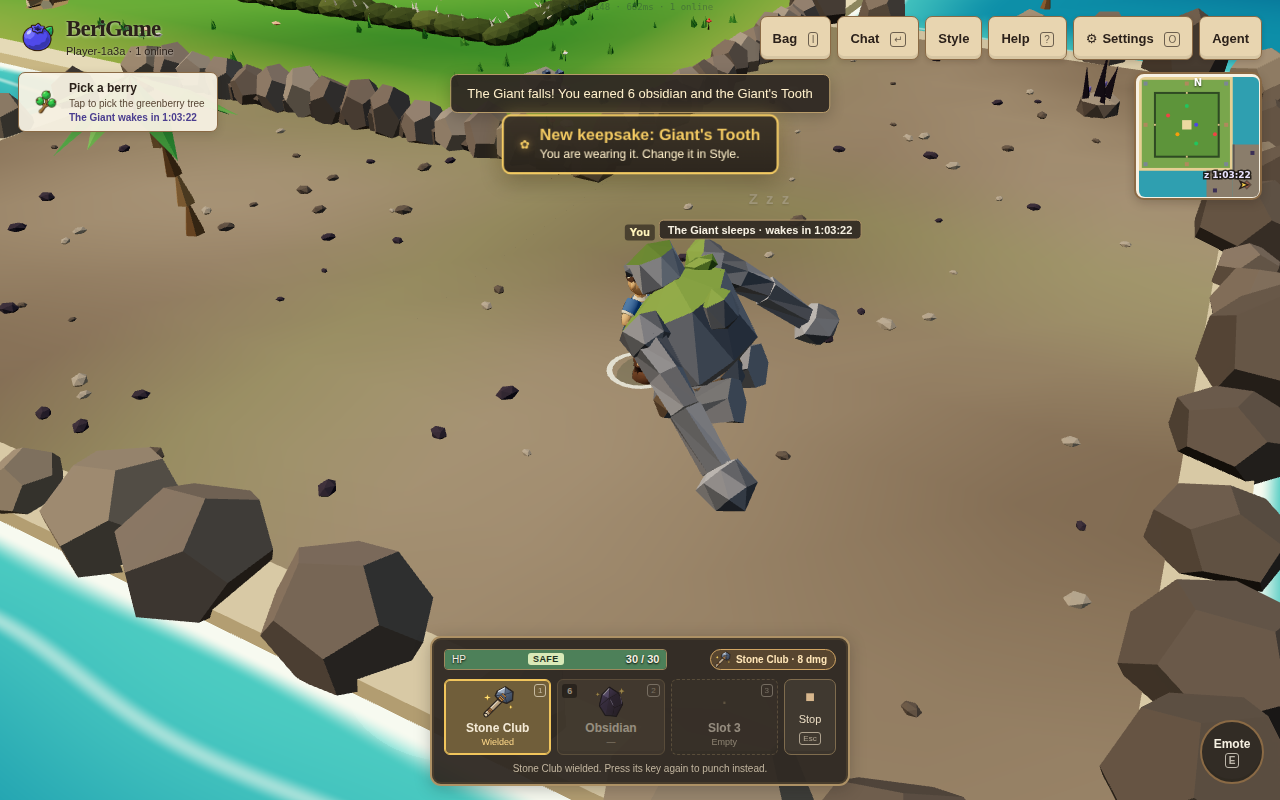
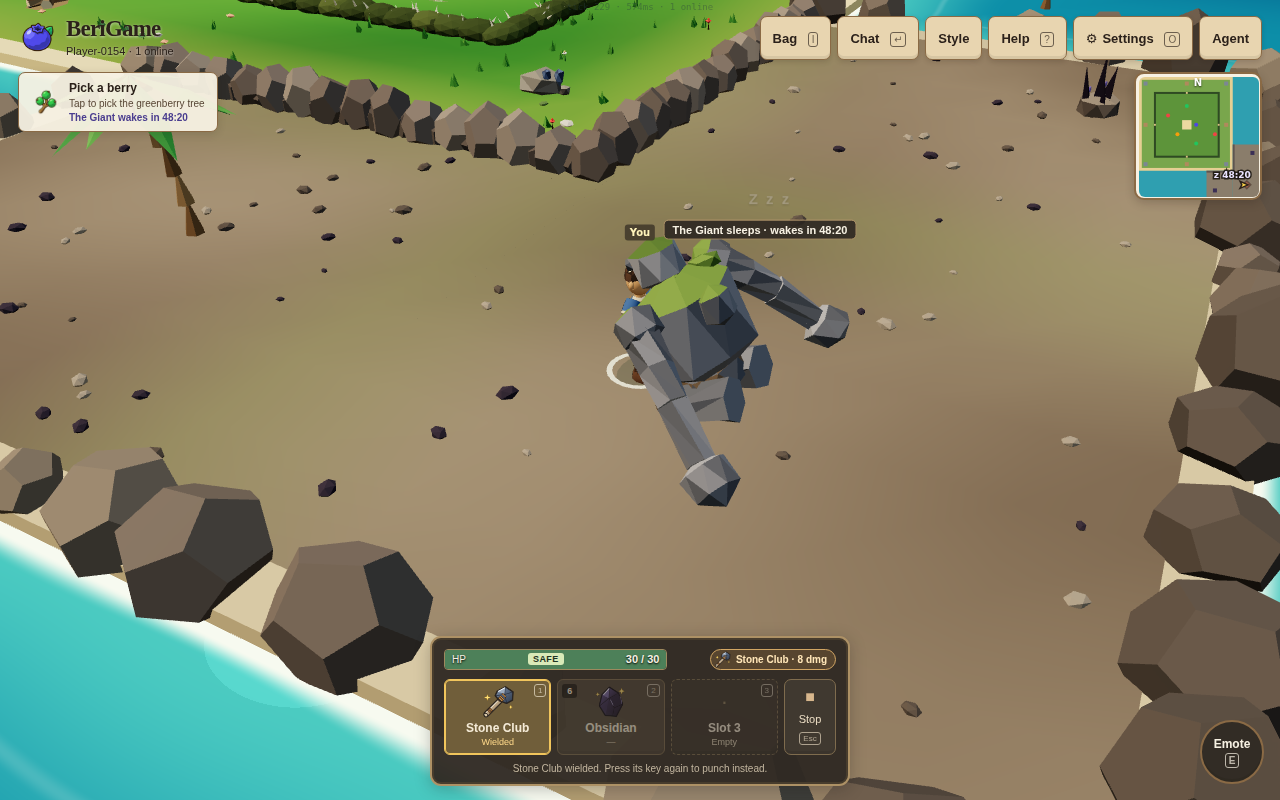
No idle regen during raids; fix doubled event-table delivery; topple before sleep
- A raid Giant never regenerates or forgets contributions mid-fight; the
  15-minute window is the only limit (test added).
- Root cause of doubled client events: useTable opened a second SQL
  subscription over tables the connection already subscribes to, so every
  event-table row (combat, dummy, emote, social, Giant) was delivered and
  handled twice. TableSync now listens on the connection's own subscription;
  the chat de-dup is removed and the live check asserts single delivery.
- A raid defeat plays the topple, holds, then eases into the sleeping sit;
  the personal reward toast is no longer covered by the world-wide line.

Claude-Session: https://claude.ai/code/session_015FWupnE4RZECBtKCf318CJ

diff --git a/frontend/src/spacetime/SpacetimeProvider.tsx b/frontend/src/spacetime/SpacetimeProvider.tsx
@@ -1,12 +1,11 @@
-import React, { useCallback, useEffect, useMemo, useRef, useState } from 'react';
+import React, { useEffect, useMemo, useRef, useState } from 'react';
 import type { CombatEvent, SocialEvent } from '../module_bindings/types';
 import { identityHex } from './identity';
 import { useToastStore } from './stores/toastStore';
 import { useMyIdentityHex } from './hooks';
 import { useFirstDayStore } from './stores/firstDayStore';
-import { SpacetimeDBProvider, useSpacetimeDB, useTable } from 'spacetimedb/react';
+import { SpacetimeDBProvider, useSpacetimeDB } from 'spacetimedb/react';
 import type { DbConnection } from '../module_bindings';
-import { tables } from '../module_bindings';
 import { buildConnection, currentConnection, markConnectionLost, setConnectionLifecycle } from './connection';
 import { ReconnectController, type BackoffOptions } from './reconnect';
 import { useLoadingStore } from '../store';
@@ -20,33 +19,49 @@ import { useSocialStore } from './stores/socialStore';
 import { useGiantStore } from './stores/giantStore';
 import { useProgressStore } from './stores/progressStore';
 
+/**
+ * Listen to one table of the connection's own world subscription. Unlike
+ * `useTable`, this opens no second SQL subscription: with two overlapping
+ * subscriptions every event-table row (combat, dummy, emote, social, Giant)
+ * was delivered, and handled, twice.
+ */
+function useRowListener(accessor: string, onInsert?: (row: any) => void, onUpdate?: (prev: any, row: any) => void) {
+  const { getConnection, isActive } = useSpacetimeDB<DbConnection>();
+  const conn = getConnection() as any;
+  const ins = useRef(onInsert); ins.current = onInsert;
+  const upd = useRef(onUpdate); upd.current = onUpdate;
+  useEffect(() => {
+    const table = conn?.db?.[accessor];
+    if (!table || !isActive) return;
+    const i = (_ctx: any, row: any) => ins.current?.(row);
+    const u = (_ctx: any, prev: any, row: any) => upd.current?.(prev, row);
+    table.onInsert(i);
+    table.onUpdate?.(u);
+    return () => { table.removeOnInsert(i); table.removeOnUpdate?.(u); };
+  }, [conn, isActive, accessor]);
+}
+
 /** Feeds the tick clock and the combat FX store from table updates. */
 const TableSync = () => {
   useEffect(startWorldLivenessMonitor, []);
-  useTable(tables.world, {
-    onInsert: (row) => onWorldTick(row.tick),
-    onUpdate: (_old, row) => onWorldTick(row.tick),
-  });
-  const pushEvent = useCombatFxStore((s) => s.pushEvent);
+  useRowListener('world', (row) => onWorldTick(row.tick), (_old, row) => onWorldTick(row.tick));
   const me = useMyIdentityHex();
   const meRef = useRef(me);
   meRef.current = me;
   // combat_event is an event table: rows only ever arrive through onInsert.
-  const onEvent = useCallback((row: CombatEvent) => {
-    pushEvent(row);
+  useRowListener('combatEvent', (row: CombatEvent) => {
+    useCombatFxStore.getState().pushEvent(row);
     useFirstDayStore.getState().onEvent(meRef.current, row);
-  }, [pushEvent]);
-  useTable(tables.combatEvent, { onInsert: onEvent });
+  });
   // Training dummy blows and emotes: event tables too.
-  useTable(tables.dummyEvent, { onInsert: useSocialStore.getState().pushDummyHit });
-  useTable(tables.emoteEvent, { onInsert: useSocialStore.getState().pushEmote });
+  useRowListener('dummyEvent', (row) => useSocialStore.getState().pushDummyHit(row));
+  useRowListener('emoteEvent', (row) => useSocialStore.getState().pushEmote(row));
   // Social notices (trade requests and results, invite results): only your own show.
-  useTable(tables.socialEvent, { onInsert: useCallback((row: SocialEvent) => {
+  useRowListener('socialEvent', (row: SocialEvent) => {
     if (meRef.current && identityHex(row.to) === meRef.current) useToastStore.getState().show(row.text);
-  }, []) });
-  // The Boulders' Giant: blows, slams, defeats and rewards (an event table).
-  const onGiantEvent = useCallback((row: any) => useGiantStore.getState().pushEvent(row, meRef.current), []);
-  useTable(tables.giantEvent, { onInsert: onGiantEvent });
+  });
+  // The Boulders' Giant: blows, slams, defeats, rewards and raid announcements (an event table).
+  useRowListener('giantEvent', (row) => useGiantStore.getState().pushEvent(row, meRef.current));
   return null;
 };
 

diff --git a/frontend/src/Components/3D/Giant.tsx b/frontend/src/Components/3D/Giant.tsx
@@ -78,6 +78,8 @@ const dustMat = new MeshBasicMaterial({ color: '#d9c8a6', transparent: true, opa
 const SLAM_MS = 480;
 const TOPPLE_MS = 1600;
 const RISE_MS = 1200;
+/** How long a raid-defeated Giant lies toppled before it sits up to sleep. */
+const TOPPLE_HOLD_MS = 1400;
 const FLINCH_MS = 450;
 const smooth = (t: number) => t * t * (3 - 2 * t);
 const clamp01 = (t: number) => Math.min(1, Math.max(0, t));
@@ -135,8 +137,12 @@ export const GiantModel = ({ giant, tick, onAttack }: { giant: GiantRow; tick: n
     }
     r.rotation.y = s.yaw;
     // Sleep blend: 1 asleep, 0 awake; eased so waking reads as standing up.
-    s.sleep += ((g.state === GiantState.Asleep ? 1 : 0) - s.sleep) * Math.min(1, delta * 2.2);
-    if (Math.abs(s.sleep - (g.state === GiantState.Asleep ? 1 : 0)) < 0.002) s.sleep = g.state === GiantState.Asleep ? 1 : 0;
+    // A raid defeat: topple over first (TOPPLE_MS), lie there a moment, then rise into the sleeping sit.
+    const sinceDefeat = now - useGiantStore.getState().defeatAt;
+    const toppling = g.state === GiantState.Asleep && sinceDefeat >= 0 && sinceDefeat < TOPPLE_MS + TOPPLE_HOLD_MS;
+    const sleepTarget = g.state === GiantState.Asleep && !toppling ? 1 : 0;
+    s.sleep += (sleepTarget - s.sleep) * Math.min(1, delta * 2.2);
+    if (Math.abs(s.sleep - sleepTarget) < 0.002) s.sleep = sleepTarget;
     const zz = s.sleep;
 
     // Defaults: idle breathing and a slow sway.
@@ -145,10 +151,11 @@ export const GiantModel = ({ giant, tick, onAttack }: { giant: GiantRow; tick: n
     r.position.y = 0;
     r.rotation.z = 0;
 
-    if (g.state === GiantState.Defeated) {
-      // Topple over and sink into a rubble mound; stay there until respawn.
+    if (g.state === GiantState.Defeated || toppling) {
+      // Topple over and sink into a rubble mound (a raid defeat then eases into its sleeping sit).
       const k = smooth(clamp01((now - fx.defeatAt) / TOPPLE_MS));
-      const done = Number.isFinite(fx.defeatAt) ? k : 1;
+      const out = toppling ? 1 - smooth(clamp01((sinceDefeat - TOPPLE_MS - TOPPLE_HOLD_MS + 600) / 600)) : 1;
+      const done = (Number.isFinite(fx.defeatAt) ? k : 1) * out;
       r.rotation.z = -1.35 * done;
       r.position.y = -0.9 * done;
       armX = -0.4 * done; armZ = 0.6 * done; lean = 0.2 * done;

diff --git a/shared/sim/giant.ts b/shared/sim/giant.ts
@@ -44,7 +44,7 @@ export const GIANT_STOMP_DAMAGE = 6;
 export const GIANT_STOMP_EVERY = 3;
 /** After a defeat it is back in 5 minutes. */
 export const GIANT_RESPAWN_TICKS = 500;
-/** Left alone this long, it is back to full HP (and old contributions are forgotten). */
+/** Pre-raid idle regeneration delay. No longer applied (raids have no regen); kept for the client's render tick cap. */
 export const GIANT_REGEN_IDLE_TICKS = 100;
 /** Damage dealt (this life) to share in the reward: two club blows or three stick blows. */
 export const GIANT_MIN_CONTRIBUTION = 16;
@@ -100,16 +100,19 @@ export function inGiantReach(t: Tile, g: Tile = GIANT_TILE): boolean {
   return chebyshev(t, g) <= GIANT_REACH;
 }
 
-/** HP at `tick`: full again after GIANT_REGEN_IDLE_TICKS without a hit (never while defeated). */
+/** HP at `tick`: 0 defeated, full asleep; during a raid exactly the row's HP (no idle regeneration since scheduled raids). */
 export function giantHpAt(g: Pick<GiantRowLike, 'hp' | 'maxHp' | 'state' | 'lastHitTick'>, tick: number): number {
   if (g.state === GiantState.Defeated) return 0;
   if (g.state === GiantState.Asleep) return g.maxHp;
-  return tick - g.lastHitTick >= GIANT_REGEN_IDLE_TICKS ? g.maxHp : g.hp;
+  // Awake means a scheduled raid (shared/sim/raid.ts): no idle regeneration, the raid window is the limit.
+  return g.hp;
 }
 
-/** Whether the old contributions no longer count (it regenerated since the last hit). */
+/** Whether old contributions no longer count. Always false since scheduled raids: a raid never regenerates or forgets. */
 export function giantForgot(g: Pick<GiantRowLike, 'hp' | 'maxHp' | 'state' | 'lastHitTick'>, tick: number): boolean {
-  return g.state !== GiantState.Defeated && g.state !== GiantState.Asleep && g.hp < g.maxHp && tick - g.lastHitTick >= GIANT_REGEN_IDLE_TICKS;
+  // Raids never forget contributions mid-fight (no idle regeneration); kept for callers.
+  void g; void tick;
+  return false;
 }
 
 export function attackRadius(attack: number): number {

diff --git a/frontend/src/spacetime/stores/giantStore.ts b/frontend/src/spacetime/stores/giantStore.ts
@@ -32,7 +32,7 @@ interface GiantFxState {
 
 export interface RaidLine { id: number; at: number; text: string }
 const MAX_LINES = 12;
-let lastLineKey = '';
+let lastRewardAt = -Infinity;
 
 /** The text of a world-wide raid event, or null for fight events. */
 export function raidLineText(e: Pick<GiantEvent, 'kind' | 'quantity' | 'hp'>): string | null {
@@ -75,14 +75,11 @@ export const useGiantStore = create<GiantFxState>((set, get) => ({
     const hex = e.player.toHexString();
     const line = raidLineText(e);
     if (line) {
-      // One line per server event, even if the insert callback fires twice for it.
-      const key = `${e.tick}:${e.kind}:${e.quantity}`;
-      if (key === lastLineKey) return;
-      lastLineKey = key;
       const lines = get().systemLines;
       const id = (lines[lines.length - 1]?.id ?? 0) + 1;
       set({ systemLines: [...lines, { id, at: Date.now(), text: line }].slice(-MAX_LINES) });
-      useToastStore.getState().show(line);
+      // Your own reward toast (same transaction) wins over the world-wide "it sleeps again" line.
+      if (!(e.kind === GiantEventKind.Sleep && performance.now() - lastRewardAt < 3000)) useToastStore.getState().show(line);
       if (e.kind === GiantEventKind.Wake) set({ hp: null, hit: null });
       return;
     }
@@ -119,7 +116,7 @@ export const useGiantStore = create<GiantFxState>((set, get) => ({
       case GiantEventKind.Reward:
         if (hex === meHex) {
           const name = getItemDef(e.itemId)?.name ?? e.itemId;
-          useToastStore.getState().show(`The Giant falls! You earned ${e.quantity} ${name.toLowerCase()} and the Giant's Tooth`);
+          { lastRewardAt = performance.now(); useToastStore.getState().show(`The Giant falls! You earned ${e.quantity} ${name.toLowerCase()} and the Giant's Tooth`); }
         }
         break;
     }

diff --git a/shared/sim/__tests__/giant.test.ts b/shared/sim/__tests__/giant.test.ts
@@ -131,11 +131,11 @@ describe('F3: the Giant AI', () => {
     expect(chooseGiantTarget(GIANT_TILE, [at(GIANT_TILE.x + 3, GIANT_TILE.z, 2), at(GIANT_TILE.x - 3, GIANT_TILE.z, 1)])?.order).toBe(1);
   });
 
-  it('HP: shared pool, lazy regeneration after idling, defeat at 0, respawn after the timer', () => {
+  it('HP: shared pool, no idle regeneration during a raid, defeat at 0, respawn after the timer', () => {
     const g = giant({ hp: 20, lastHitTick: 100 });
-    expect(giantHpAt(g, 100 + GIANT_REGEN_IDLE_TICKS - 1)).toBe(20);
-    expect(giantHpAt(g, 100 + GIANT_REGEN_IDLE_TICKS)).toBe(GIANT_MAX_HP);
-    expect(giantForgot(g, 100 + GIANT_REGEN_IDLE_TICKS)).toBe(true);
+    expect(giantHpAt(g, 100 + GIANT_REGEN_IDLE_TICKS)).toBe(20);
+    expect(giantHpAt(g, 100 + 10 * GIANT_REGEN_IDLE_TICKS)).toBe(20);
+    expect(giantForgot(g, 100 + 10 * GIANT_REGEN_IDLE_TICKS)).toBe(false);
     expect(giantAfterHit(g, 8, 101)).toEqual({ hp: 12, defeated: false });
     expect(giantAfterHit(g, 25, 101)).toEqual({ hp: 0, defeated: true });
     const down = giant({ hp: 0, state: GiantState.Defeated, respawnTick: 700 });

diff --git a/shared/sim/__tests__/server-reducers.test.ts b/shared/sim/__tests__/server-reducers.test.ts
@@ -1273,6 +1273,25 @@ describe('M3/F3: the Boulders gate and the Giant', () => {
     expect(h.contributions.size).toBe(0);
   });
 
+  it('no idle regeneration or contribution reset during a raid: the window is the limit', () => {
+    h.inventory.clear();
+    giveClub();
+    wake();
+    Object.assign(h.me(), { ...WEST, weapon: STONE_CLUB_ITEM_ID, respawnTick: 100_000 }); // grace: its blows skip A
+    attackGiant(h.ctx, { giantId: GIANT_ID });
+    run(1);
+    const hpAfterHit = h.giants.get(GIANT_ID).hp;
+    expect(hpAfterHit).toBe(RAID_HP_BASE - 8);
+    expect(h.contributions.get('a').damage).toBe(8);
+    cancel(h.ctx);
+    run(3 * 100); // far past the old 100-tick regeneration
+    expect(h.giants.get(GIANT_ID).hp).toBe(hpAfterHit);
+    attackGiant(h.ctx, { giantId: GIANT_ID });
+    run(1);
+    expect(h.giants.get(GIANT_ID).hp).toBe(hpAfterHit - 8);
+    expect(h.contributions.get('a').damage).toBe(16);
+  });
+
   it('a raid missed entirely (the module was down) just reschedules', () => {
     run();
     setMs(RAID_INTERVAL_MS + RAID_WINDOW_MS + 5000); run();

diff --git a/docs/design/ROADMAP.md b/docs/design/ROADMAP.md
@@ -134,7 +134,7 @@ The goal chip (M1) replaces the GatherShortcut button: one line, "tap to do it".
 | 11 | Training dummy: who may hit it, and where | **Decided: open to everyone (no combat grant), since it harms nobody. One static post at (28,28): ring 3, diagonal to the safe ring's SE corner, off the four worn paths, more than 2 tiles from every tree (harvest tiles stay clear). It blocks its tile; it takes hits and floats damage but never dies (60 HP that springs back to full, and back to full after 25 idle ticks, computed lazily). Swings work from the safe ring and in grace, and do not end grace. Server: `training_dummy` table plus `dummy_event` event table; the tick does one primary-key lookup (seeding it if missing) and writes only on a landed swing (no idle writes).** | Grove, now |
 | 12 | Area 3 entry requirement | **Decided (M3 build): holding a stone club (bag or wielded), one-way, stateless, exactly like the stick and the brambles.** The club is the only item that needs both Coast inputs, so reaching the Boulders proves the Coast loop; no key is stored on the character and death drops it (§1.3). Grid grown, not carved (open question 2 resolved: default). | M3 |
 | 13 | The Giant: numbers and fairness | **Decided (F3 build): 400 shared HP, telegraphed slam (3x3 on a player's tile, 9 dmg after 3 ticks) and every third attack a stomp (radius 3 around it, 6 dmg after 4 ticks), 3-tick recover, full regen after 100 idle ticks, respawn 500 ticks after defeat. Open to everyone, never ends grace or sets hostile; its blows skip players in grace. Reward: 3 obsidian to every online contributor with >= 16 damage that life (equal shares, no top-damage bonus: §1.4/§1.5).** *Superseded in part by 14: it no longer respawns on a timer.* | F3 |
-| 14 | Scheduled Giant raids | **Decided (owner chose; built): the Giant sleeps between raids and wakes every 3 hours on the UTC hour (00:00, 03:00, ... `RAID_INTERVAL_MS`), announced world-wide at T-10 and T-1 minutes and on waking (toast plus a chat system line). Asleep it cannot be attacked (sat down, eyes shut, "Z z z" and a countdown over it, in the goal chip and on the minimap). Raid HP = 600 + 200 per extra player in the Boulders at the wake, counting at most 8 (600..2000). A raid lasts 15 minutes (`RAID_WINDOW_MS`), then it goes back to sleep undefeated; defeated, it sleeps until the next slot. Reward: 6 obsidian and the Giant's Tooth keepsake (neck, cosmetic) to every online contributor with >= 24 damage that raid, equal shares. A raid missed entirely (module down) is skipped, not replayed. The world owner can wake it now or schedule the next wake N seconds ahead (`trigger_giant_raid`, testing). Tick cost asleep: one primary-key read and a time compare; writes only on the two announcements and the wake. Schedule times come from the reducer timestamp, so no time-played power.** | F3 |
+| 14 | Scheduled Giant raids | **Decided (owner chose; built): the Giant sleeps between raids and wakes every 3 hours on the UTC hour (00:00, 03:00, ... `RAID_INTERVAL_MS`), announced world-wide at T-10 and T-1 minutes and on waking (toast plus a chat system line). Asleep it cannot be attacked (sat down, eyes shut, "Z z z" and a countdown over it, in the goal chip and on the minimap). Raid HP = 600 + 200 per extra player in the Boulders at the wake, counting at most 8 (600..2000). A raid lasts 15 minutes (`RAID_WINDOW_MS`), then it goes back to sleep undefeated; no idle regeneration or contribution reset during a raid (the window is the limit); defeated, it sleeps until the next slot. Reward: 6 obsidian and the Giant's Tooth keepsake (neck, cosmetic) to every online contributor with >= 24 damage that raid, equal shares. A raid missed entirely (module down) is skipped, not replayed. The world owner can wake it now or schedule the next wake N seconds ahead (`trigger_giant_raid`, testing). Tick cost asleep: one primary-key read and a time compare; writes only on the two announcements and the wake. Schedule times come from the reducer timestamp, so no time-played power.** | F3 |
 | 15 | Mentor rewards | **Decided (owner chose; built): when a newer player first reaches the Coast (walking, or landing there by invite) or makes their first stone club, a mentor earns the Mentor's Pin (neck; bronze at 1 mentee, silver at 3, gold at 10) and the newcomer the Welcomed Ribbon (head); both get a notice. Mentor = the player whose invite link they first redeemed, else a mutual friend (both lists) online and alive within 8 tiles; the inviter wins ties, then the nearest. Anti-abuse: the mentor must be the veteran of the pair (joined at least a day earlier, or had crafted before the newcomer first joined, i.e. already held the key to the Boulders; there is no separate Boulders column in play_stats); one credit per newcomer, ever; a milestone passed without a mentor never counts later; nobody mentors themselves. Mentor notices go through notifyThrottled. Cosmetic only; mentee counts show in the Friends panel.** | Social |
 
 Owner direction: the base is very simple, easy to understand, and meaningful in the first 3 minutes. Sticks are the first meaningful reward and are not easy.

diff --git a/docs/AGENT_API.md b/docs/AGENT_API.md
@@ -245,7 +245,7 @@ the exact schemas.
   combat access needed, and hitting it never ends grace or makes you hostile.
   `attack_giant` walks you within Chebyshev 2 of its centre (it blocks the 3x3
   around it) and keeps swinging with your punch or weapon; its HP pool is
-  shared by everyone and regenerates after 100 ticks without a hit. It attacks
+  shared by everyone and does not regenerate during a raid. It attacks
   players in the Boulders within 8 tiles: `state` goes `idle` ->
   `winding_up` (with `telegraph {attack: slam|stomp, center, radius, damage,
   landsInTicks, youAreInside}`) -> the blow lands -> `recovering`. A slam hits
